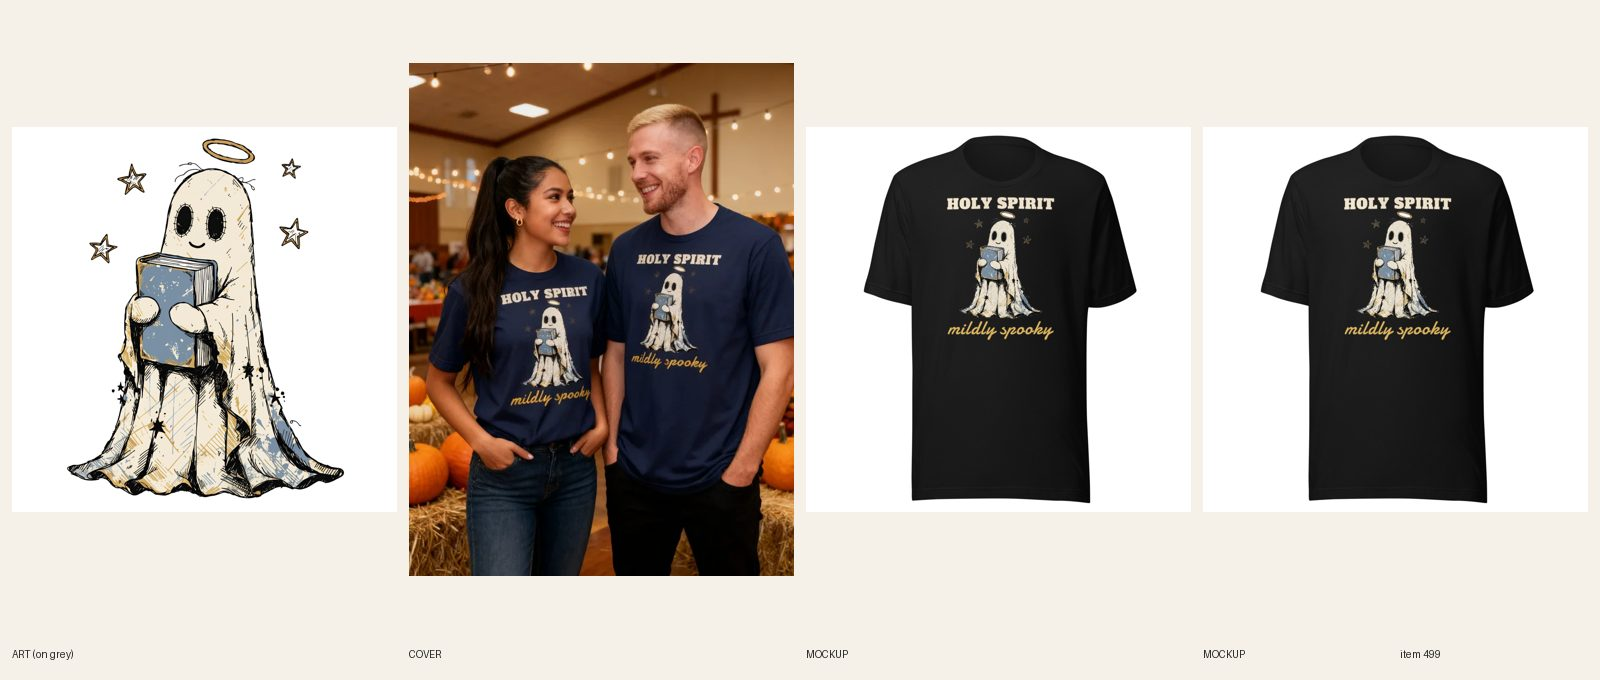
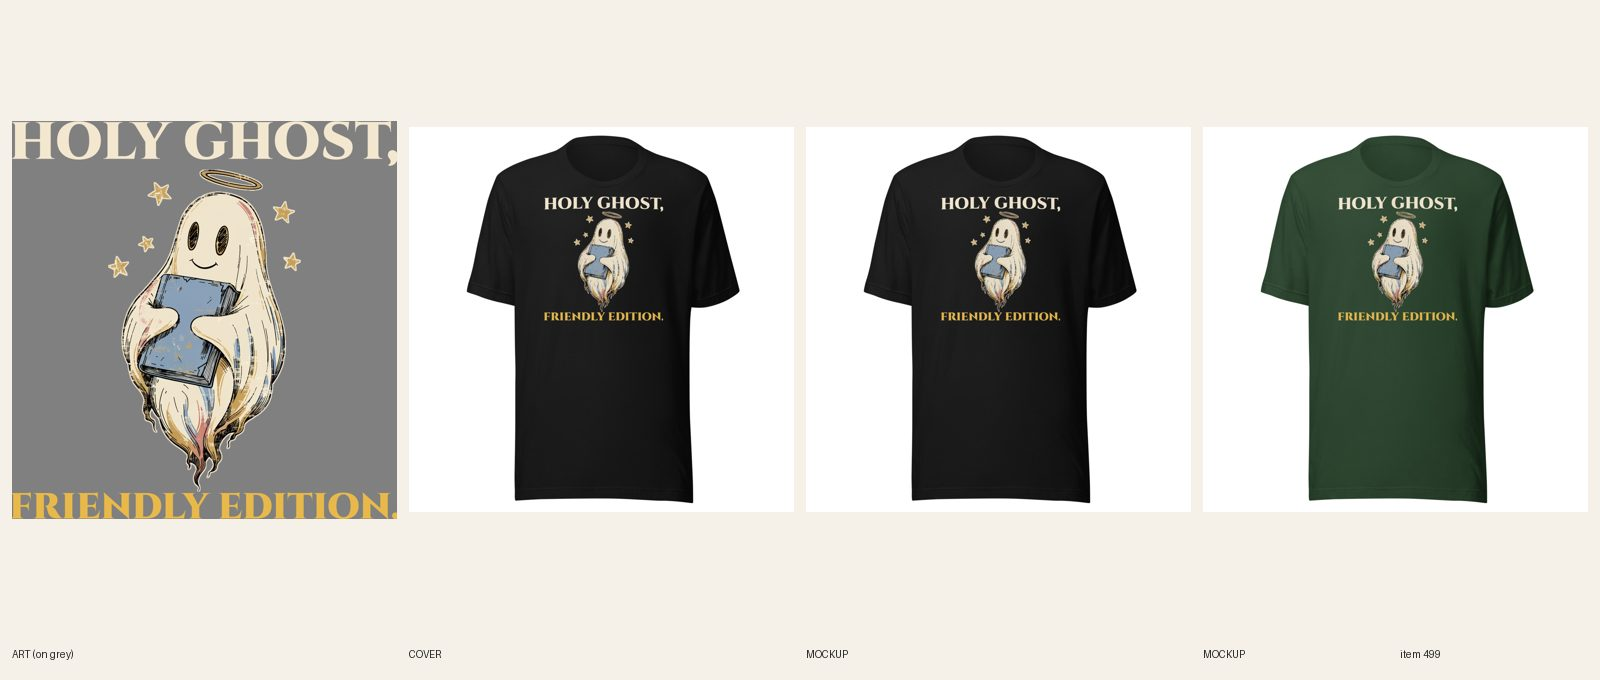
[E] review 499 redid #499 Unisex Christian tee (line + type: HOLY GHOST, FRIENDLY EDITION., new halo-ghost art, one cream-and-gold file on 6 dark colors, 42/42 synced, copy updated, plain product shot). REVIEW. fal $0.04.

diff --git a/docs/pipeline/499-christian-tee-holy-spirit-mildly-spooky.md b/docs/pipeline/499-christian-tee-holy-spirit-mildly-spooky.md
@@ -1,4 +1,4 @@
-status: REDO
+status: REVIEW
 lane: E
 type: new
 id: 499
@@ -31,3 +31,4 @@ kd: 40
 - 2026-10-18 03:35 UTC builder [E]: REVIEW. Art: 1 Recraft call (try 1 kept: sheet ghost with a thin gold halo hugging a worn blue book, stars; no cross on the book). HOLY SPIRIT (Alfa Slab One, cream) above and mildly spooky (Damion script, gold #e2b95b) below via compose-print with a dark keyline, solid fill so the cream ghost stays opaque. Print 11.3 x 15.0 in, FW 1500 TOP 75. Colors Black, Navy, Dark Grey Heather, Forest, Maroon, Heather Deep Teal (cream ghost and gold script read on all six; 6 x 7 sizes = 42). DRAFT gid 15364391436592 (category aa-1-13-8, $24.99, compare-at null, tags per brief, keyword holy ghost shirt 170/40 in line one and meta, 5 FAQs 43-51 words incl. Dec 8). Printful file 1088616569, sync 42/42. One mockup per color + back attached and linked. Phone-size read on Black: both lines legible. Cover registry 825+826 try 1: both in navy tees, all words read, hair and hands clear. Variant-photo audit clean; audit --handle only 'not visible'. fal ~$0.1.
 - 2026-10-18 02:45 UTC director: LIVE (ACTIVE + Online Store/Headless/Google & YouTube, audit PASS 0 warn).
 - 2026-10-18 17:22 UTC director: QUALITY RESET grade C (new line + type), REDO. The product stays ACTIVE (same handle, URL, title keyword). 1. Line (R3.12, quality-reset 'Lines'): "HOLY SPIRIT / mildly spooky": Noun plus mild aside pun; thin gold script on black/navy; no type in art file. Write 5 candidates, keep the one a stranger laughs at in 3 seconds without backstory; kill lines that only describe the picture; if none of the 5 is funny, PARK it. 2. Quality reset type bar (docs/backlog/quality-reset.md, 'The new bar'): headline at least 90% of the art width, heavy, colors pulled from the art; second line at least 45% of the headline's height, never a thin script on a dark or mid garment; use the lettering as a shape (arch, stacked lockup, words breaking into the art), not a plain bar above and a script line below; no font used on more than 1 in 6 of the last 30 designs. 3. Keep the art if it carries the new line, else one new illustration (R4/R5). New print means a new cover per R6.10, copy line one rewritten for the new joke (R8.3), and a fresh review sheet (R7.7). While quality-reset.md says PAUSED, only lane A builds, and only the samples step 2 names.
+- 2026-10-20 04:40 UTC builder [E]: REDO 499 (C grade, line + type) done on the existing product (stays ACTIVE, handle unchanged). Faith humor kept gentle and respectful (R3.14; the insider Holy Ghost wording only, nothing about scripture or Bible content, the book carries no cover marks). 5 candidates: "HOLY GHOST, FRIENDLY EDITION."; "Church Kid, Lifelong Boo"; "Holy Spirit, Mildly Spooky" (old); "Sunday Ghost Story"; "Halo Included". Kept HOLY GHOST, / FRIENDLY EDITION. (friendly ghost with a halo, 3 seconds). One new Recraft call ($0.04): sheet ghost with halo hugging a plain blue book, no words. Cinzel Black, both lines full print width, cream + gold, thin cream halo. All six offered colors are dark: one file per color from the same print, cream fill (no light color offered, so no dark-ink file needed). FW 1650 TOP 75, 42/42 synced on the new file, back logo kept. 6 fronts replaced in place, alts updated, title/SEO/copy/FAQs rewritten. Cover: handle added to retired-covers.json (plain product shot). Phone-size read OK on all six (gold is the softest on Heather Deep Teal). audit --handle PASS 0 warn; astro build OK. fal $0.04. Sheet docs/review/499.jpg.

diff --git a/docs/intake-log.md b/docs/intake-log.md
@@ -2,6 +2,7 @@
 RUNNING director since 2026-10-20 04:12 UTC
 2026-10-20 04:34 UTC — [B] Builder run: redid #519 Women's Knitting crewneck (line + type: ONE MORE ROW / FAMOUS LAST WORDS., new armchair art, Bowlby One, Sand + Light Pink dark-ink file, 12/12 synced). REVIEW. fal $0.04.
 2026-10-20 04:22 UTC — [B] Builder run: redid #513 Women's Dachshund crewneck (line + type: SEE YOU / IN APRIL., new quilt-dachshund art, Big Shoulders, Sand + Sport Grey dark-ink file, 12/12 synced). REVIEW. fal $0.04.
+2026-10-20 04:40 UTC — [E] Builder run: redid #499 Unisex Christian tee (line + type: HOLY GHOST, FRIENDLY EDITION., new halo-ghost art, one cream-and-gold file on 6 dark colors, 42/42 synced, copy updated, plain product shot). REVIEW. fal $0.04.
 2026-10-20 03:47 UTC — [H] Helper run: audit 607 products, 0 errors, 30 warnings (no scripted ERRORs to fix). Category check: 0 products without a Shopify category. Site check: 3 newest LIVE pages (#618, #578, #548) all 200. Stuck-work check: nothing BUILDING, all locks under 2h. Telegram: no new messages. Announcement bar already on holiday line. Daily summary not due (before 12:00 UTC). Lock released.
 2026-10-20 04:15 UTC — [E] Builder run: redid #459 Men's Mountain Bike heavyweight hoodie (line + type: 40 MINUTES UP. 40 SECONDS DOWN., new downhill rider art, Storm Blue + Sandstone files, 14/14 synced, copy updated, plain product shot). REVIEW. fal $0.04.
 2026-10-20 04:08 UTC — [E] Builder run: redid #443 Unisex Mothman hoodie (line + type: SIGHTINGS BY APPOINTMENT ONLY., new sleeping Mothman art, Navy + Sand files, 12/12 synced, copy updated, plain product shot). REVIEW. fal $0.04.
